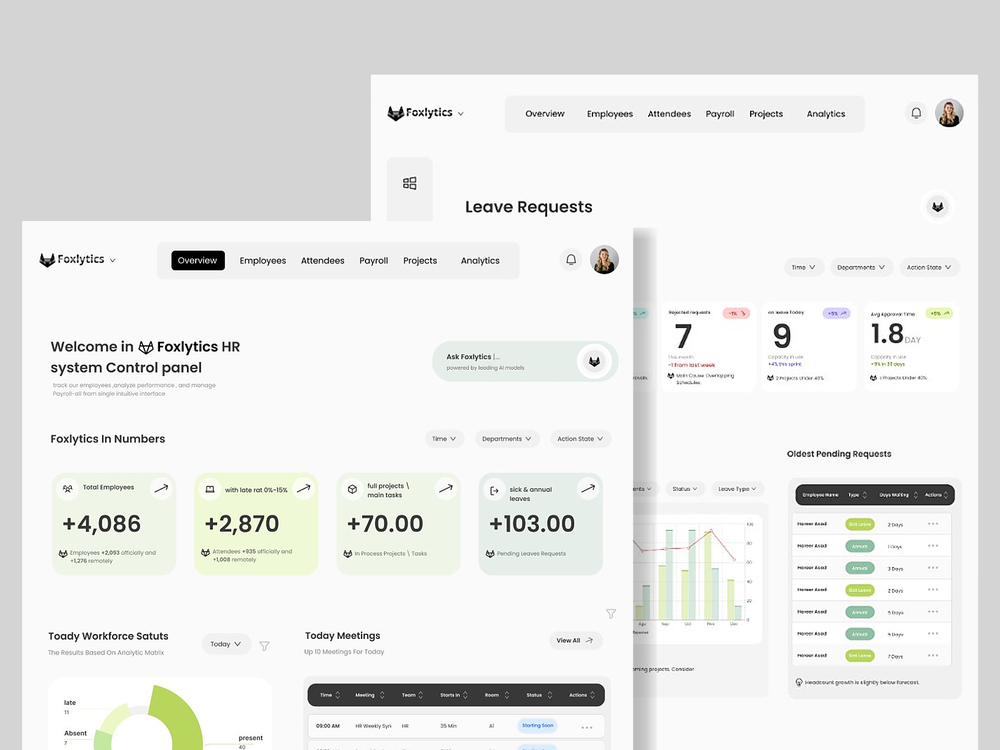
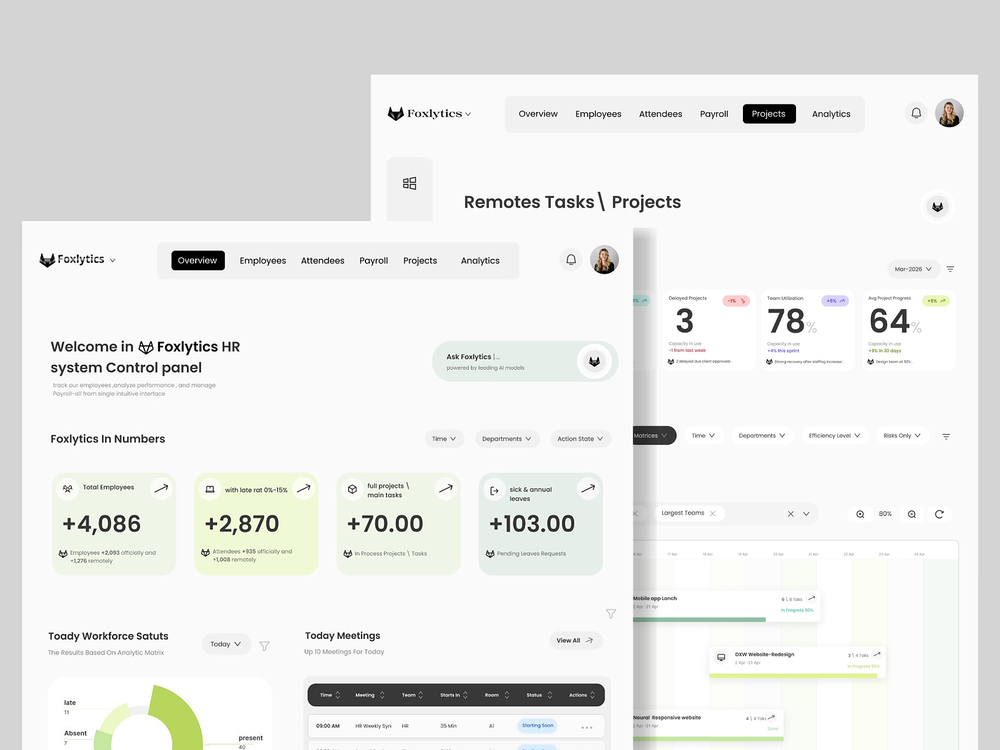
Two-page mockup: back page is now the Projects screen
Claude-Session: https://claude.ai/code/session_01FdYAnoP1AuAPuCnLWf7gdc

diff --git a/behance-cover/mockups/set14c.py b/behance-cover/mockups/set14c.py
@@ -1,0 +1,35 @@
+# Two overlapping web pages on grey ("nuro"): the back page becomes Projects, the front page
+# Overview (welcome screen), each shown from the top of the page (intro first). The front page's soft shadow on the
+# back page is measured from the original and laid back on. Behance artboard 1400x788 (+2x) and
+# Upwork 4:3 1000x750 (+2x, JPEG).
+import numpy as np
+from PIL import Image, ImageFilter
+I = '/tmp/claude-0/-home-user-claude-Ai-website-1/fd49522e-f0ff-52ed-b6c7-08cca43cc4fd/images/'
+base = Image.open(I + '167.webp').convert('RGB'); W0, H0 = base.size
+BACK, FRONT = (766, 135, 1864, H0), (135, 400, 1240, H0)
+g = np.asarray(base.convert('L')).astype(np.float32)
+prof = np.clip(np.median(g[450:1000, 1240:1300], 0) / 255, 0, 1)          # shadow strength by distance from the front page
+def page(f, w, h):
+    p = Image.open(I + f).convert('RGB'); k = w / p.width
+    p = p.resize((w, round(p.height * k)), Image.LANCZOS).crop((0, 0, w, h))
+    # the screenshots are small, so they are enlarged; a light unsharp mask brings back crisp text edges
+    return p.filter(ImageFilter.UnsharpMask(radius=0.8 * k, percent=90, threshold=2))
+for K in (1, 2):
+    sc = base.resize((W0 * K, H0 * K), Image.LANCZOS); a = np.asarray(sc).astype(np.float32).copy()
+    l, t, r, b = [v * K for v in BACK]
+    a[t:b, l:r] = np.asarray(page('171.jpg', r - l, b - t)).astype(np.float32)
+    sh = np.ones((H0 * K, W0 * K), np.float32); n = len(prof) * K
+    sh[FRONT[1] * K + 12 * K:, FRONT[2] * K:FRONT[2] * K + n] = np.repeat(prof, K)[None, :]
+    ramp = np.clip((np.arange(H0 * K) - (FRONT[1] + 2) * K) / (30 * K), 0, 1)[:, None]   # fade in at the top corner
+    sh = 1 - (1 - sh) * ramp
+    a[:, :, :] *= np.where(np.zeros_like(sh, bool), 1, sh)[..., None] if True else 1
+    l, t, r, b = [v * K for v in FRONT]
+    a[t:b, l:r] = np.asarray(page('170.jpg', r - l, b - t)).astype(np.float32)
+    out = Image.fromarray(a.clip(0, 255).astype(np.uint8)); W, H = out.size
+    cw = round(H * 4 / 3); x0 = (W - cw) // 2                                   # Upwork 4:3
+    out.crop((x0, 0, x0 + cw, H)).resize((2000, 1500) if K == 2 else (1000, 750), Image.LANCZOS).save(
+        f'uw-nuro3-{2000 if K == 2 else 1000}.jpg', quality=97, subsampling=0)
+    ch = round(W * 9 / 16); y0 = 95 * K                                         # Behance 16:9, top of both pages kept
+    out.crop((0, y0, W, y0 + ch)).resize((2800, 1576) if K == 2 else (1400, 788), Image.LANCZOS).save(
+        f'ab-nuro3-{2800 if K == 2 else 1400}.png')
+print('done')
